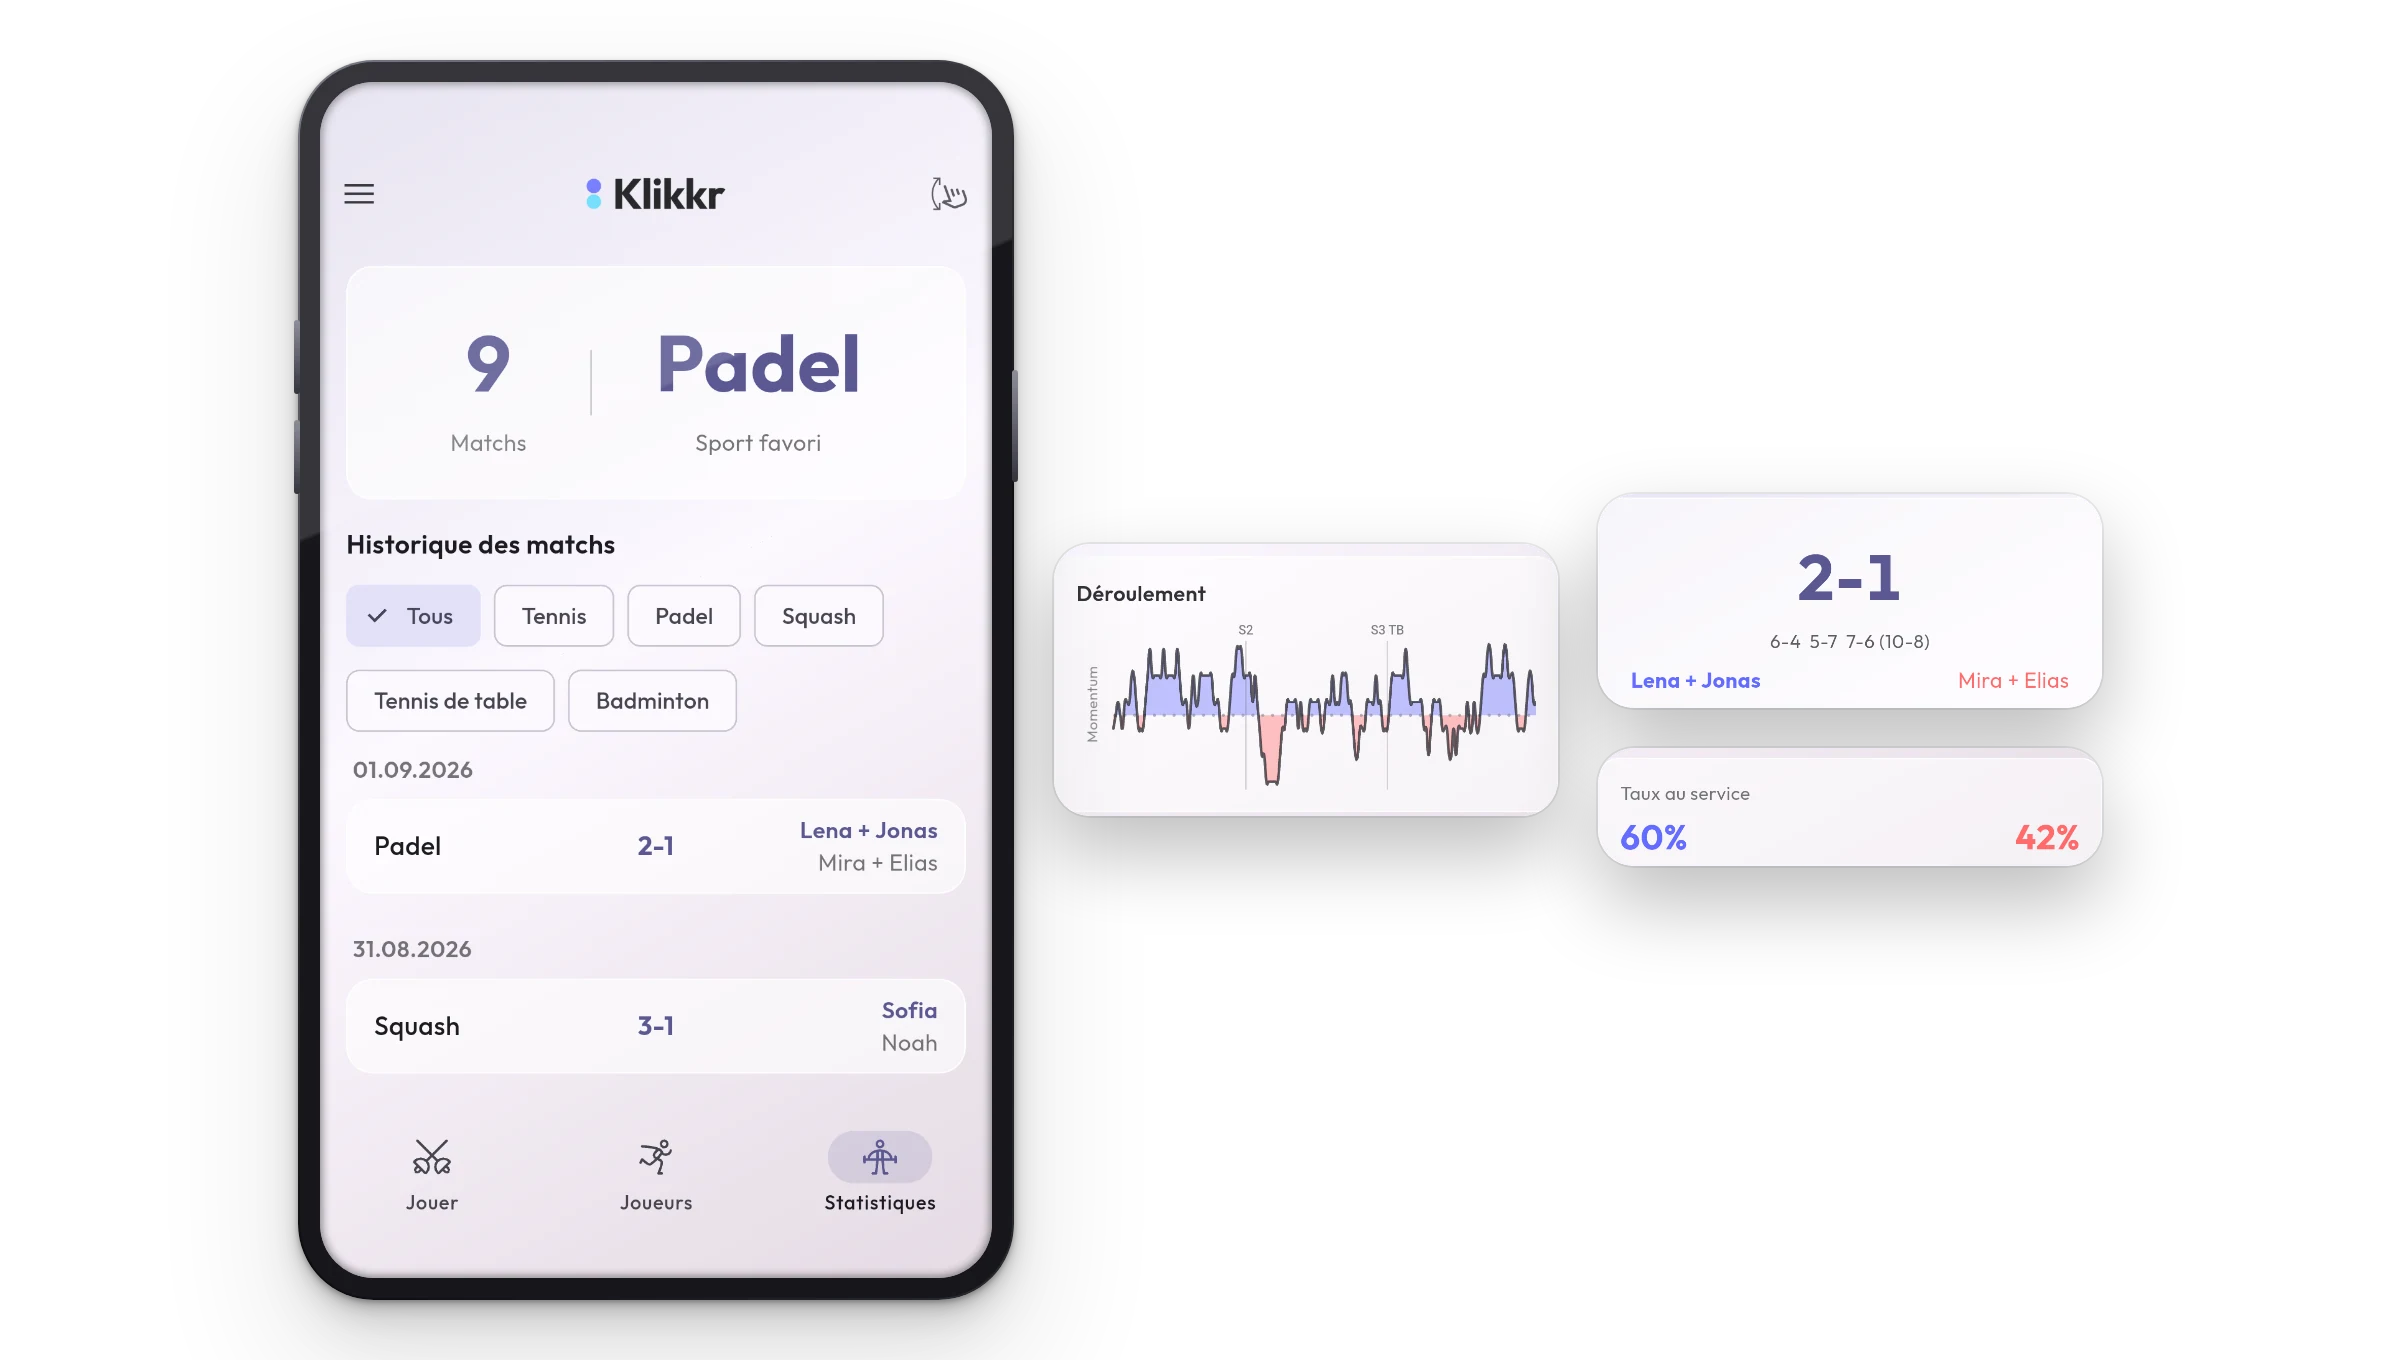
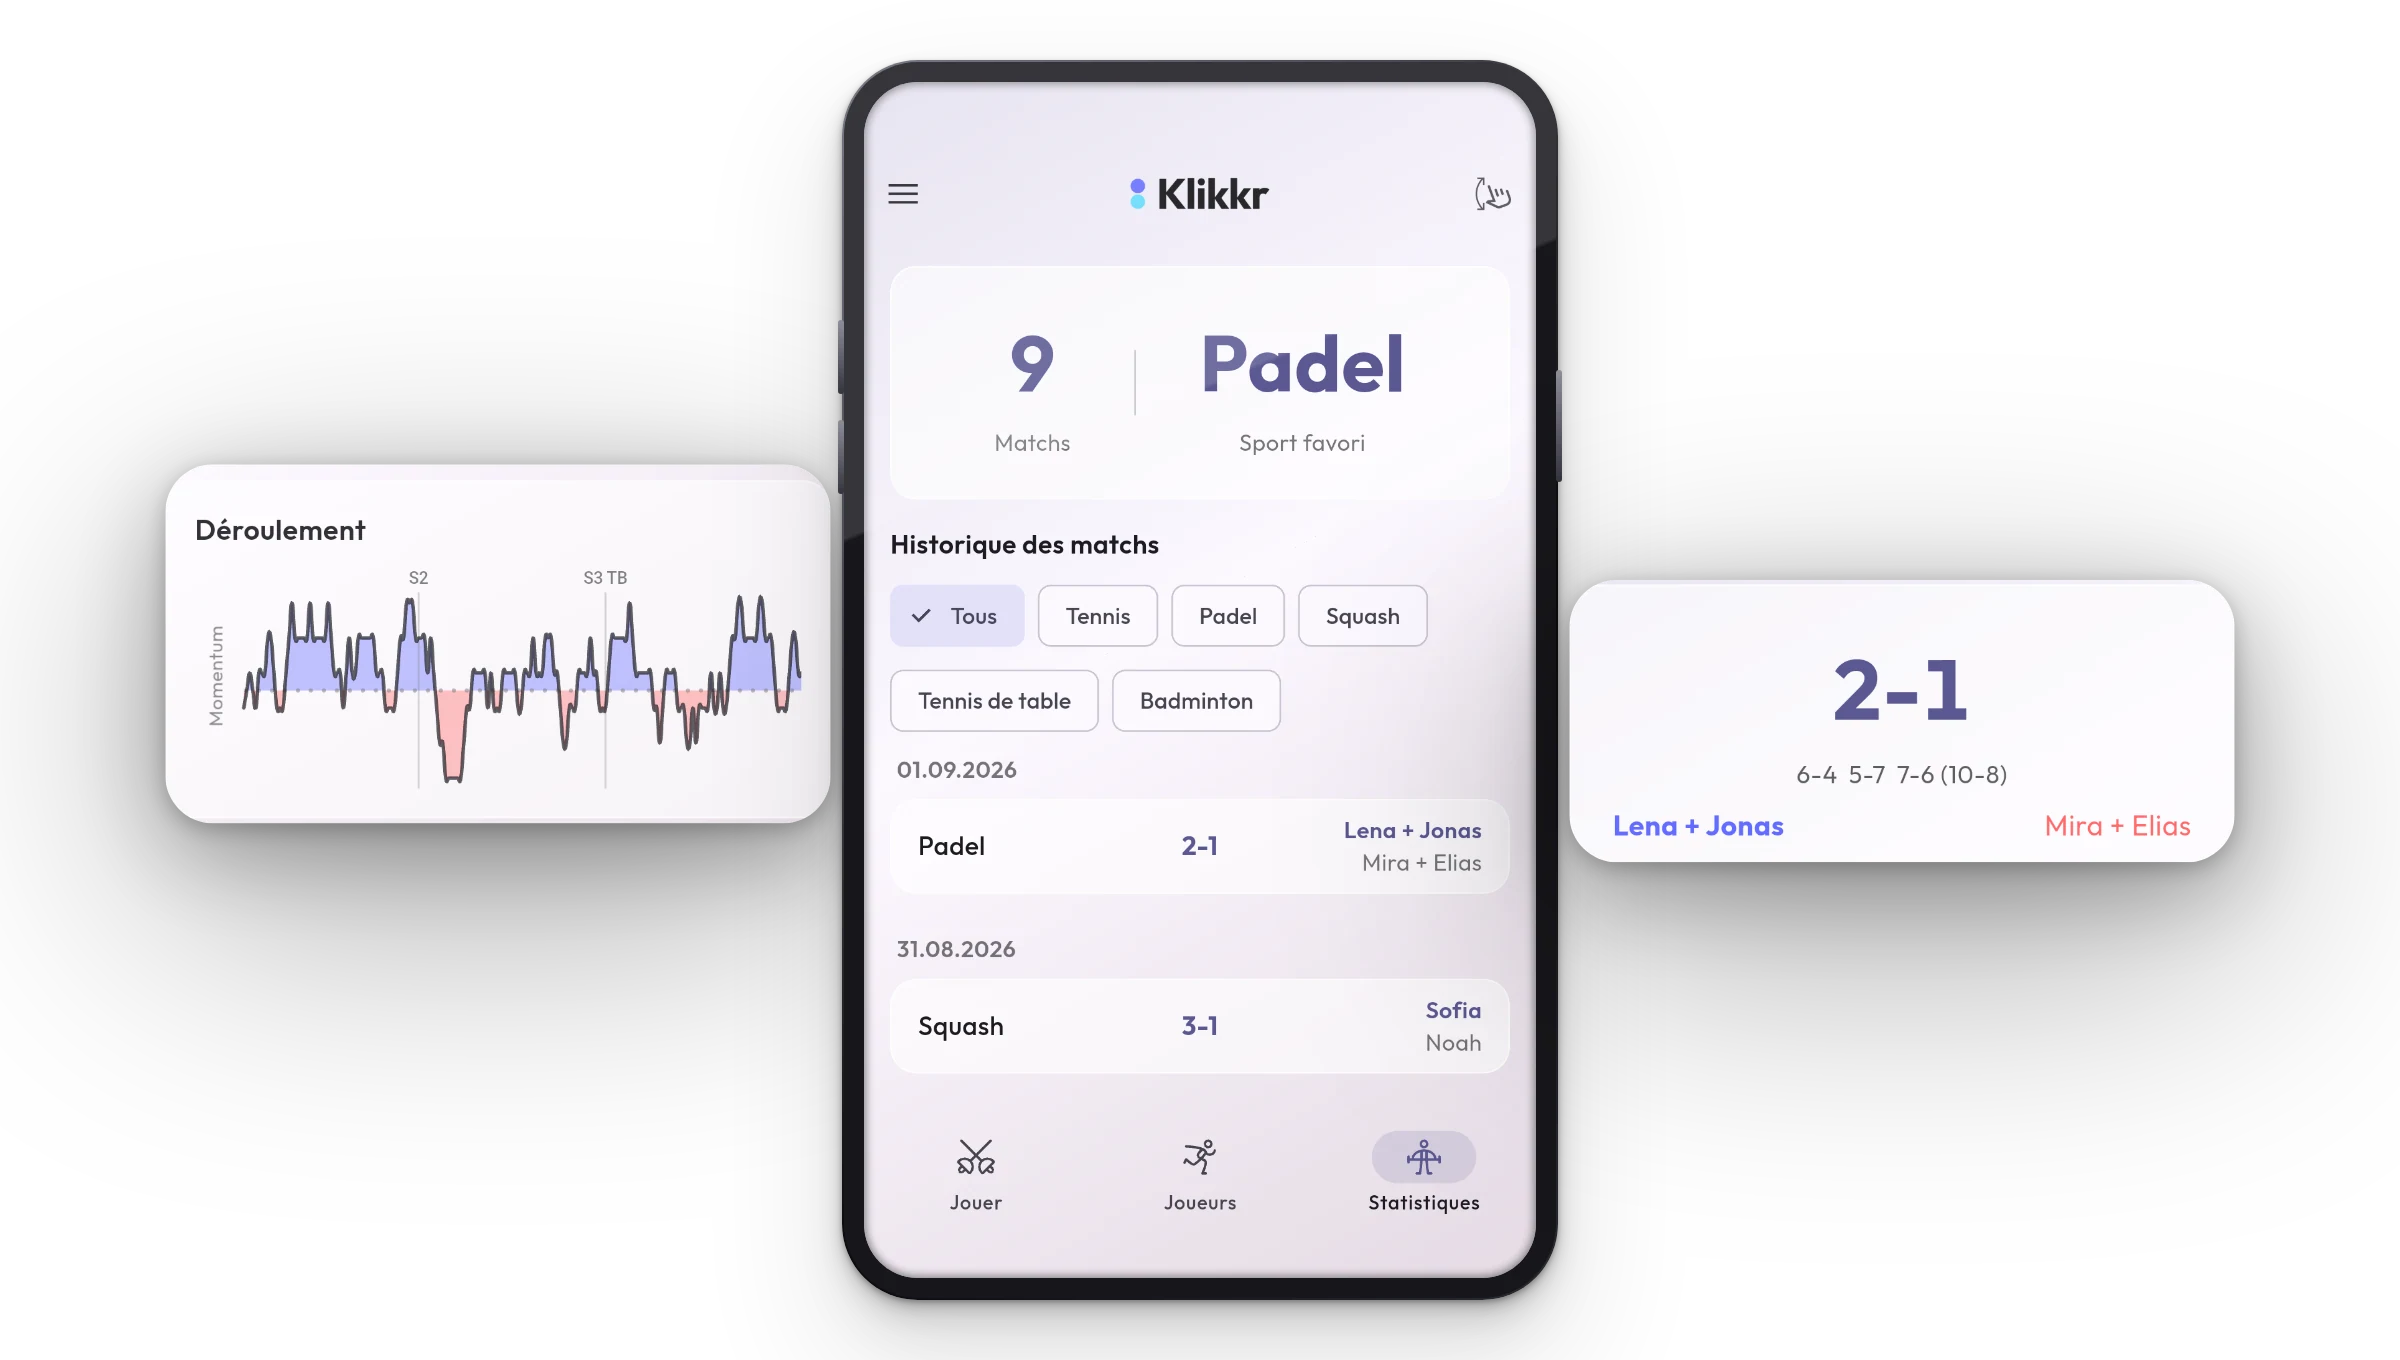
feat(app): rename the mirror tab, say it takes more than one screen
The tab was "Anzeigetafel" and the copy spoke of "the second device",
which undersold it: the master keeps a list of connected slaves and
pushes every snapshot to all of them, so the number is not two.

Tab is now "Mirror" in all four languages, matching what the app calls
the feature, and the copy says every connected device. The picture
carries it too, with a third screen further back.

Statistics drops the serve-percentage card and gives the space to the
momentum chart and the result.

Claude-Session: https://claude.ai/code/session_01DSQes332AvYSwypbHAUaki

diff --git a/src/i18n/fr.ts b/src/i18n/fr.ts
@@ -181,17 +181,16 @@ export const fr: Translations = {
         imageAlt: 'Réglages des règles dans l’application Klikkr',
       },
       mirror: {
-        tab: 'Second écran',
-        kicker: 'Display sync',
-        title: 'Le deuxième téléphone devient le tableau',
-        body: 'Scannez le code, c’est parti. Le score s’affiche en direct sur le second appareil, derrière la vitre ou au poteau, pendant que vous continuez à compter sur le vôtre.',
+        tab: 'Mirror',
+        kicker: 'Display-Sync',
+        title: 'Chaque autre téléphone devient un tableau',
+        body: 'Scannez le code, c’est parti. Le score s’affiche en direct sur chaque appareil connecté, derrière la vitre, au poteau ou côté public, pendant que vous continuez à compter sur le vôtre.',
         proof: [
+          'Plusieurs appareils à la fois',
           'Sans internet',
           'Directement en Bluetooth',
-          'Aussi en paysage',
         ],
-        imageAlt:
-          'Deux téléphones, l’un affiche le code, l’autre le score reproduit',
+        imageAlt: 'Chaque autre téléphone devient un tableau',
       },
       stats: {
         tab: 'Statistiques',

diff --git a/src/i18n/it.ts b/src/i18n/it.ts
@@ -180,17 +180,16 @@ export const it: Translations = {
         imageAlt: 'Impostazioni delle regole nell’app Klikkr',
       },
       mirror: {
-        tab: 'Secondo schermo',
-        kicker: 'Display sync',
-        title: 'Il secondo telefono diventa il tabellone',
-        body: 'Scansiona il codice e parte. Il punteggio va in diretta sul secondo dispositivo, dietro il vetro o sul palo della rete, mentre tu continui a contare sul tuo.',
+        tab: 'Mirror',
+        kicker: 'Display-Sync',
+        title: 'Ogni altro telefono diventa un tabellone',
+        body: 'Scansiona il codice e parte. Il punteggio va in diretta su ogni dispositivo collegato, dietro il vetro, sul palo della rete o dal pubblico, mentre tu continui a contare sul tuo.',
         proof: [
+          'Più dispositivi insieme',
           'Senza internet',
           'Direttamente via Bluetooth',
-          'Anche in orizzontale',
         ],
-        imageAlt:
-          'Due telefoni, uno mostra il codice, l’altro il punteggio rispecchiato',
+        imageAlt: 'Ogni altro telefono diventa un tabellone',
       },
       stats: {
         tab: 'Statistiche',

diff --git a/src/i18n/de.ts b/src/i18n/de.ts
@@ -179,13 +179,16 @@ export const de: Translations = {
         imageAlt: 'Regeln-Einstellungen der Klikkr App',
       },
       mirror: {
-        tab: 'Anzeigetafel',
+        tab: 'Mirror',
         kicker: 'Display-Sync',
-        title: 'Das zweite Handy wird zur Anzeigetafel',
-        body: 'QR-Code scannen, fertig. Der Spielstand läuft live auf dem zweiten Gerät, an der Scheibe oder am Netzpfosten, während du auf deinem weiterzählst.',
-        proof: ['Ohne Internet', 'Direkt per Bluetooth', 'Auch im Querformat'],
-        imageAlt:
-          'Zwei Smartphones, eines zeigt den QR-Code, das andere den gespiegelten Spielstand',
+        title: 'Jedes weitere Handy wird zur Anzeigetafel',
+        body: 'QR-Code scannen, fertig. Der Spielstand läuft live auf jedem verbundenen Gerät, an der Scheibe, am Netzpfosten oder beim Publikum, während du auf deinem weiterzählst.',
+        proof: [
+          'Mehrere Geräte gleichzeitig',
+          'Ohne Internet',
+          'Direkt per Bluetooth',
+        ],
+        imageAlt: 'Jedes weitere Handy wird zur Anzeigetafel',
       },
       stats: {
         tab: 'Statistik',

diff --git a/src/i18n/en.ts b/src/i18n/en.ts
@@ -178,13 +178,16 @@ export const en: Translations = {
         imageAlt: 'Rule settings in the Klikkr app',
       },
       mirror: {
-        tab: 'Second screen',
-        kicker: 'Display sync',
-        title: 'A second phone becomes the scoreboard',
-        body: 'Scan the code and it runs. The live score appears on the second device, behind the glass or on the net post, while you keep scoring on your own.',
-        proof: ['No internet', 'Straight over Bluetooth', 'Landscape too'],
-        imageAlt:
-          'Two phones, one showing the pairing code, the other the mirrored score',
+        tab: 'Mirror',
+        kicker: 'Display-Sync',
+        title: 'Every other phone becomes a scoreboard',
+        body: 'Scan the code and it runs. The live score appears on every connected device, behind the glass, on the net post or with the spectators, while you keep scoring on your own.',
+        proof: [
+          'Several devices at once',
+          'No internet',
+          'Straight over Bluetooth',
+        ],
+        imageAlt: 'Every other phone becomes a scoreboard',
       },
       stats: {
         tab: 'Statistics',
